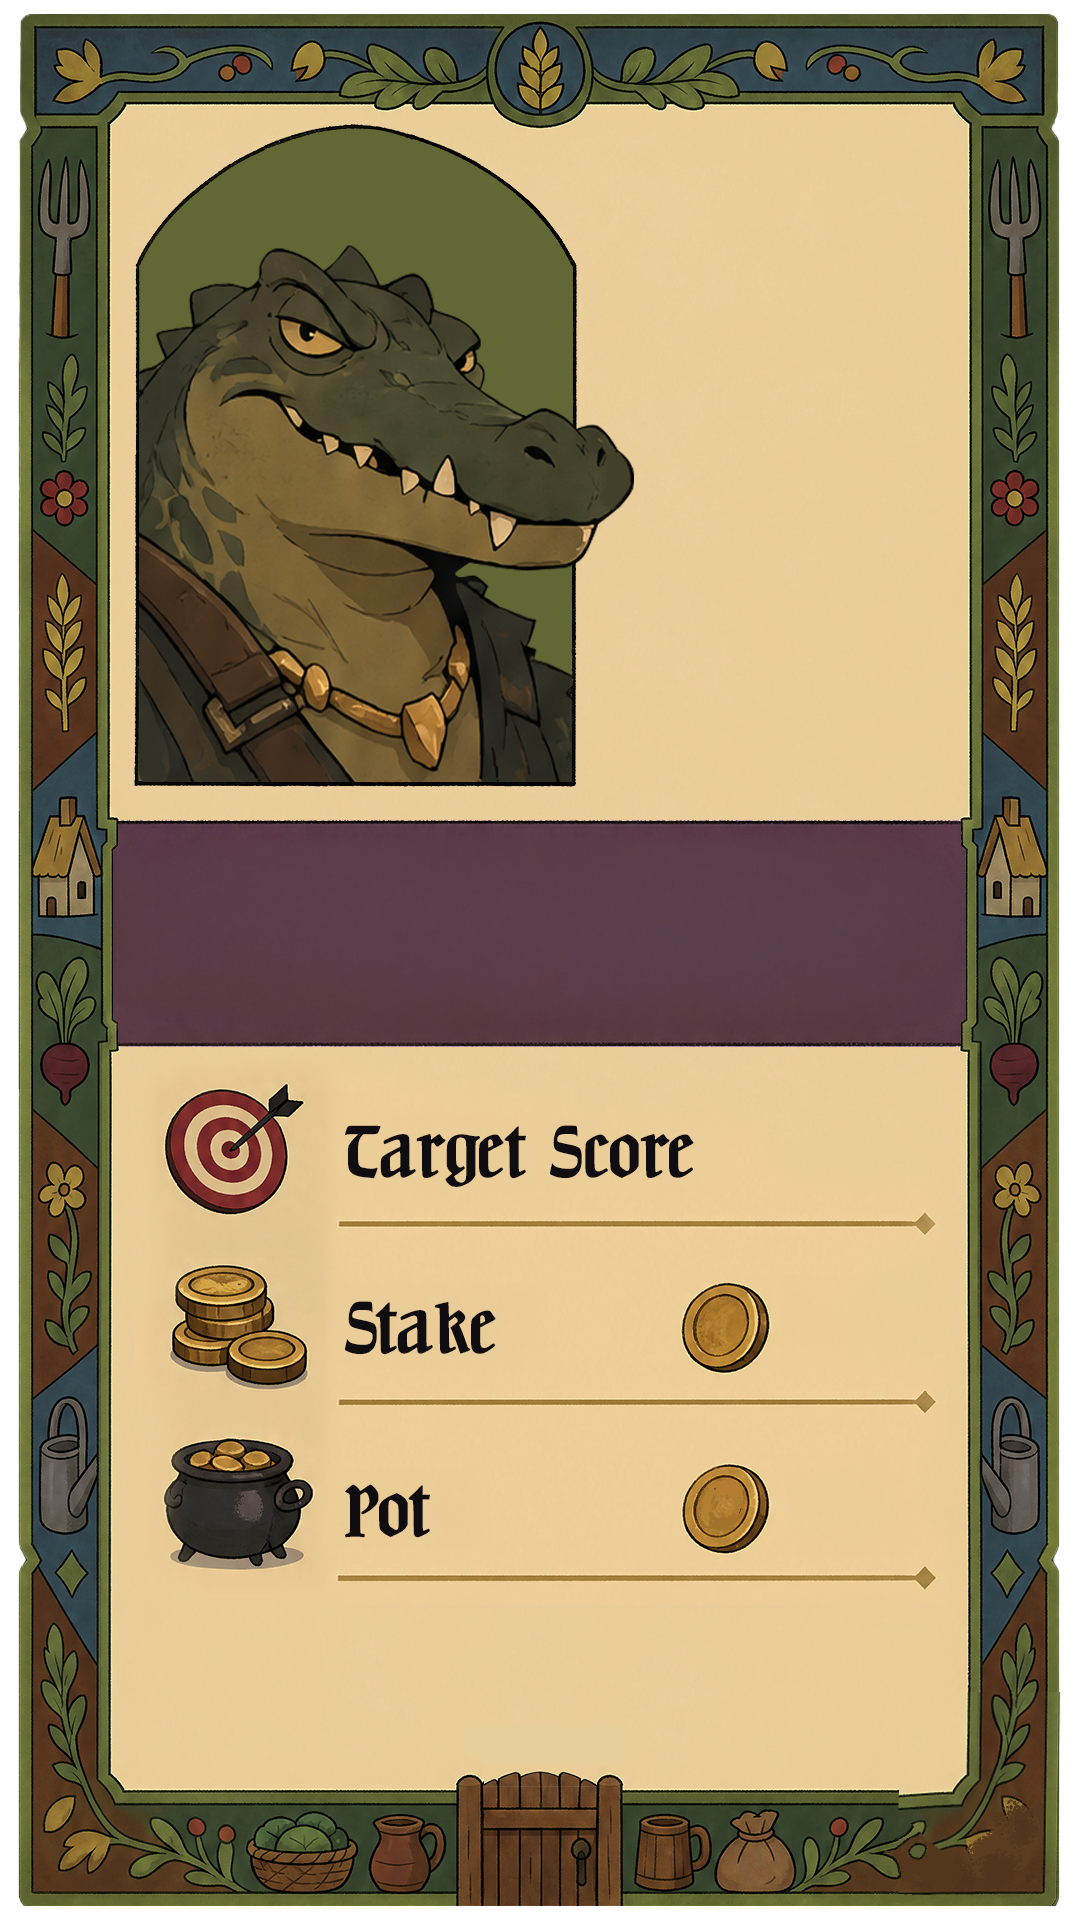
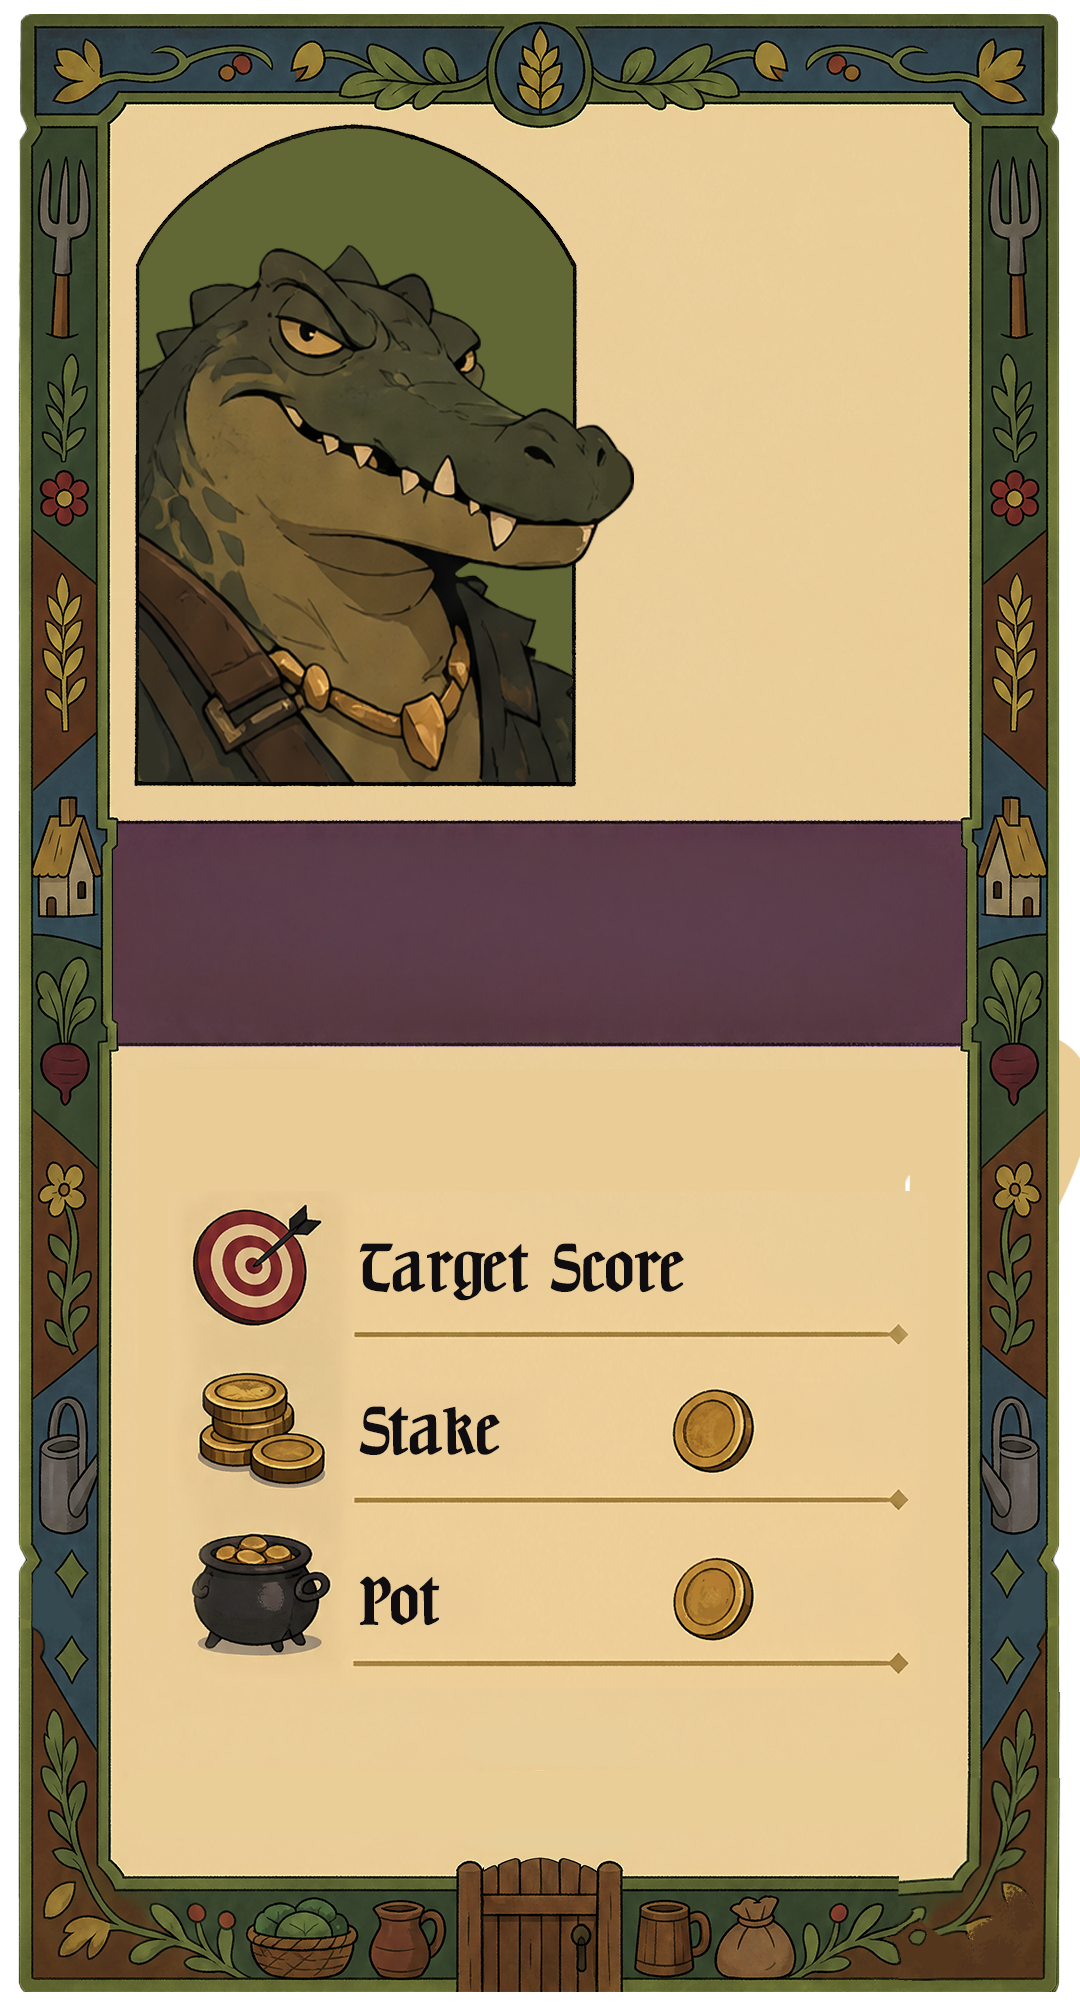
P66: extended panel base - rescaled anchors, centered name, corner seal, baked buttons

diff --git a/fark_proto.html b/fark_proto.html
@@ -428,38 +428,37 @@ html.fkSA #gbSheet,html.fkSA #peekSheet{padding-bottom:env(safe-area-inset-botto
   transition:transform .5s cubic-bezier(.3,1,.3,1),opacity .2s}
 #ptPanel.on{transform:translateY(0);opacity:1;pointer-events:auto}
 #ptPanelSheet{position:absolute;left:50%;top:50%;transform:translate(-50%,-50%);
-  width:min(92cqw,52.9cqh);aspect-ratio:1080/1920;container-type:size;
+  width:min(92cqw,50.3cqh);aspect-ratio:1080/2011;container-type:size;
   filter:drop-shadow(0 12px 34px rgba(0,0,0,.65))}
 #ptPanel .bgimg{position:absolute;inset:0;width:100%;height:100%;object-fit:contain}
 #ptPanel .pv{position:absolute;right:14%;font-family:var(--bodyFont);color:#2e1c0b;
   font-size:3.9cqh;text-align:right}
-#ptvTarget{bottom:37.8%}
-#ptvStake{bottom:28.4%}
-#ptvPot{bottom:19.5%}
-#ptvName{position:absolute;left:56%;right:11.5%;top:8%;text-align:right;z-index:2;
+#ptvTarget{bottom:40.6%}
+#ptvStake{bottom:31.6%}
+#ptvPot{bottom:23.1%}
+#ptvName{position:absolute;left:51%;right:9%;top:7.6%;text-align:center;z-index:2;
   font-family:'JMH Beda',serif;color:#26170a;line-height:1.08}
-#ptvName .t1{display:block;font-size:4cqh}
-#ptvName .t2{display:block;font-size:6.2cqh;letter-spacing:.02em}
-#ptvSeal{position:absolute;right:19%;top:22.5%;width:13.5%;z-index:2;transform:rotate(-9deg);
-  filter:drop-shadow(0 4px 8px rgba(0,0,0,.4))}
-#ptvTrait{position:absolute;left:57%;right:9%;top:30.6%;z-index:2;text-align:center;
-  font-family:'JMH Beda',serif;font-size:3.2cqh;color:#631c2a;letter-spacing:.04em}
-#ptvDice{position:absolute;left:10.5%;right:10.6%;top:43.4%;height:8.2%;z-index:2;
+#ptvName .t1{display:block;font-size:3.8cqh}
+#ptvName .t2{display:block;font-size:6cqh;letter-spacing:.02em}
+#ptvSeal{position:absolute;left:45.4%;top:33.8%;width:10.5%;z-index:2;transform:rotate(-9deg);
+  filter:drop-shadow(0 3px 6px rgba(0,0,0,.4))}
+#ptvTrait{position:absolute;left:57%;right:8%;top:35.9%;z-index:2;text-align:left;
+  font-family:'JMH Beda',serif;font-size:2.3cqh;color:#631c2a;letter-spacing:.04em}
+#ptvDice{position:absolute;left:10.5%;right:10.6%;top:41.5%;height:7.8%;z-index:2;
   display:flex;align-items:flex-start;justify-content:center;gap:.4%}
 #ptvDice .d3chip{width:15.9%;aspect-ratio:1}
-#ptvXtra{position:absolute;left:12%;right:12%;top:51.6%;height:2.6%;z-index:2;text-align:center;
-  font-family:var(--bodyFont);font-size:1.9cqh;line-height:1.3;color:#efe2c8;
+#ptvXtra{position:absolute;left:12%;right:12%;top:49.2%;height:2.4%;z-index:2;text-align:center;
+  font-family:var(--bodyFont);font-size:1.8cqh;line-height:1.3;color:#efe2c8;
   text-shadow:0 1px 2px rgba(0,0,0,.5);white-space:nowrap;overflow:hidden}
 #ptvXtra .w{color:#f3dfa6}
-#ptvLuck{position:absolute;left:11%;right:11%;top:55.3%;z-index:2;text-align:center;
+#ptvLuck{position:absolute;left:11%;right:11%;top:52.6%;z-index:2;text-align:center;
   font-family:var(--bodyFont);font-size:1.8cqh;color:#4a2d12}
-#ptPanel .pbtn{position:absolute;inset:0;width:100%;height:100%;object-fit:contain;
-  pointer-events:none;transition:transform .1s}
+#ptPanel .pbtn{display:none}
 #ptSitLayer{transform-origin:49.7% 88%}
 #ptCloseLayer{transform-origin:89.5% 92.4%}
 #ptBtnSit,#ptBtnClose{position:absolute;cursor:pointer;z-index:11}
-#ptBtnSit{left:17%;top:82%;width:65%;height:10%}
-#ptBtnClose{left:79%;top:87.5%;width:16%;height:10%}
+#ptBtnSit{left:14%;top:81%;width:72%;height:9.5%}
+#ptBtnClose{left:78%;top:87%;width:18%;height:8%}
 #ptBtnSit:active ~ #ptSitLayer{transform:scale(.955)}
 #ptBtnClose:active ~ #ptCloseLayer{transform:scale(.9) rotate(-5deg)}
 #ptStage{container-type:size}

diff --git a/docs/PROTO_NOTES.md b/docs/PROTO_NOTES.md
@@ -977,3 +977,17 @@ pointer-events:none). Sealed seats always wear the PURPLE card set
 glow (two stacked drop-shadows on .ptcard.sealedFx) matching the smoke
 band. NIGHT chip is a plain label now — rules access is title-screen
 book icon only.
+
+## P66 — panel on the extended base (done)
+
+Krox.png grew to 1080x2011 (extended bottom). Sheet aspect + width
+clamp updated (50.3cqh), every anchor rescaled: band 41.0-51.8%, dice
+41.5/7.8, xtra 49.2, luck 52.6, values bottoms 40.6/31.6/23.1. Name
+CENTERED in the right column (3.8/6cqh), wax seal smaller (10.5%) at
+the portrait's bottom-right corner, trait word 2.3cqh beside it. The
+old full-sheet button overlays (btn_sit_full/btn_close_full) can't
+align with the new aspect (contain letterboxing) and the buttons are
+baked in the new art — overlays hidden, hit zones moved onto the baked
+buttons (sit 14/81 72x9.5, X 78/87 18x8). Press-bounce feedback on
+those buttons is gone for now (art is baked); revisit if Denis wants
+it back via cropped button sprites.
